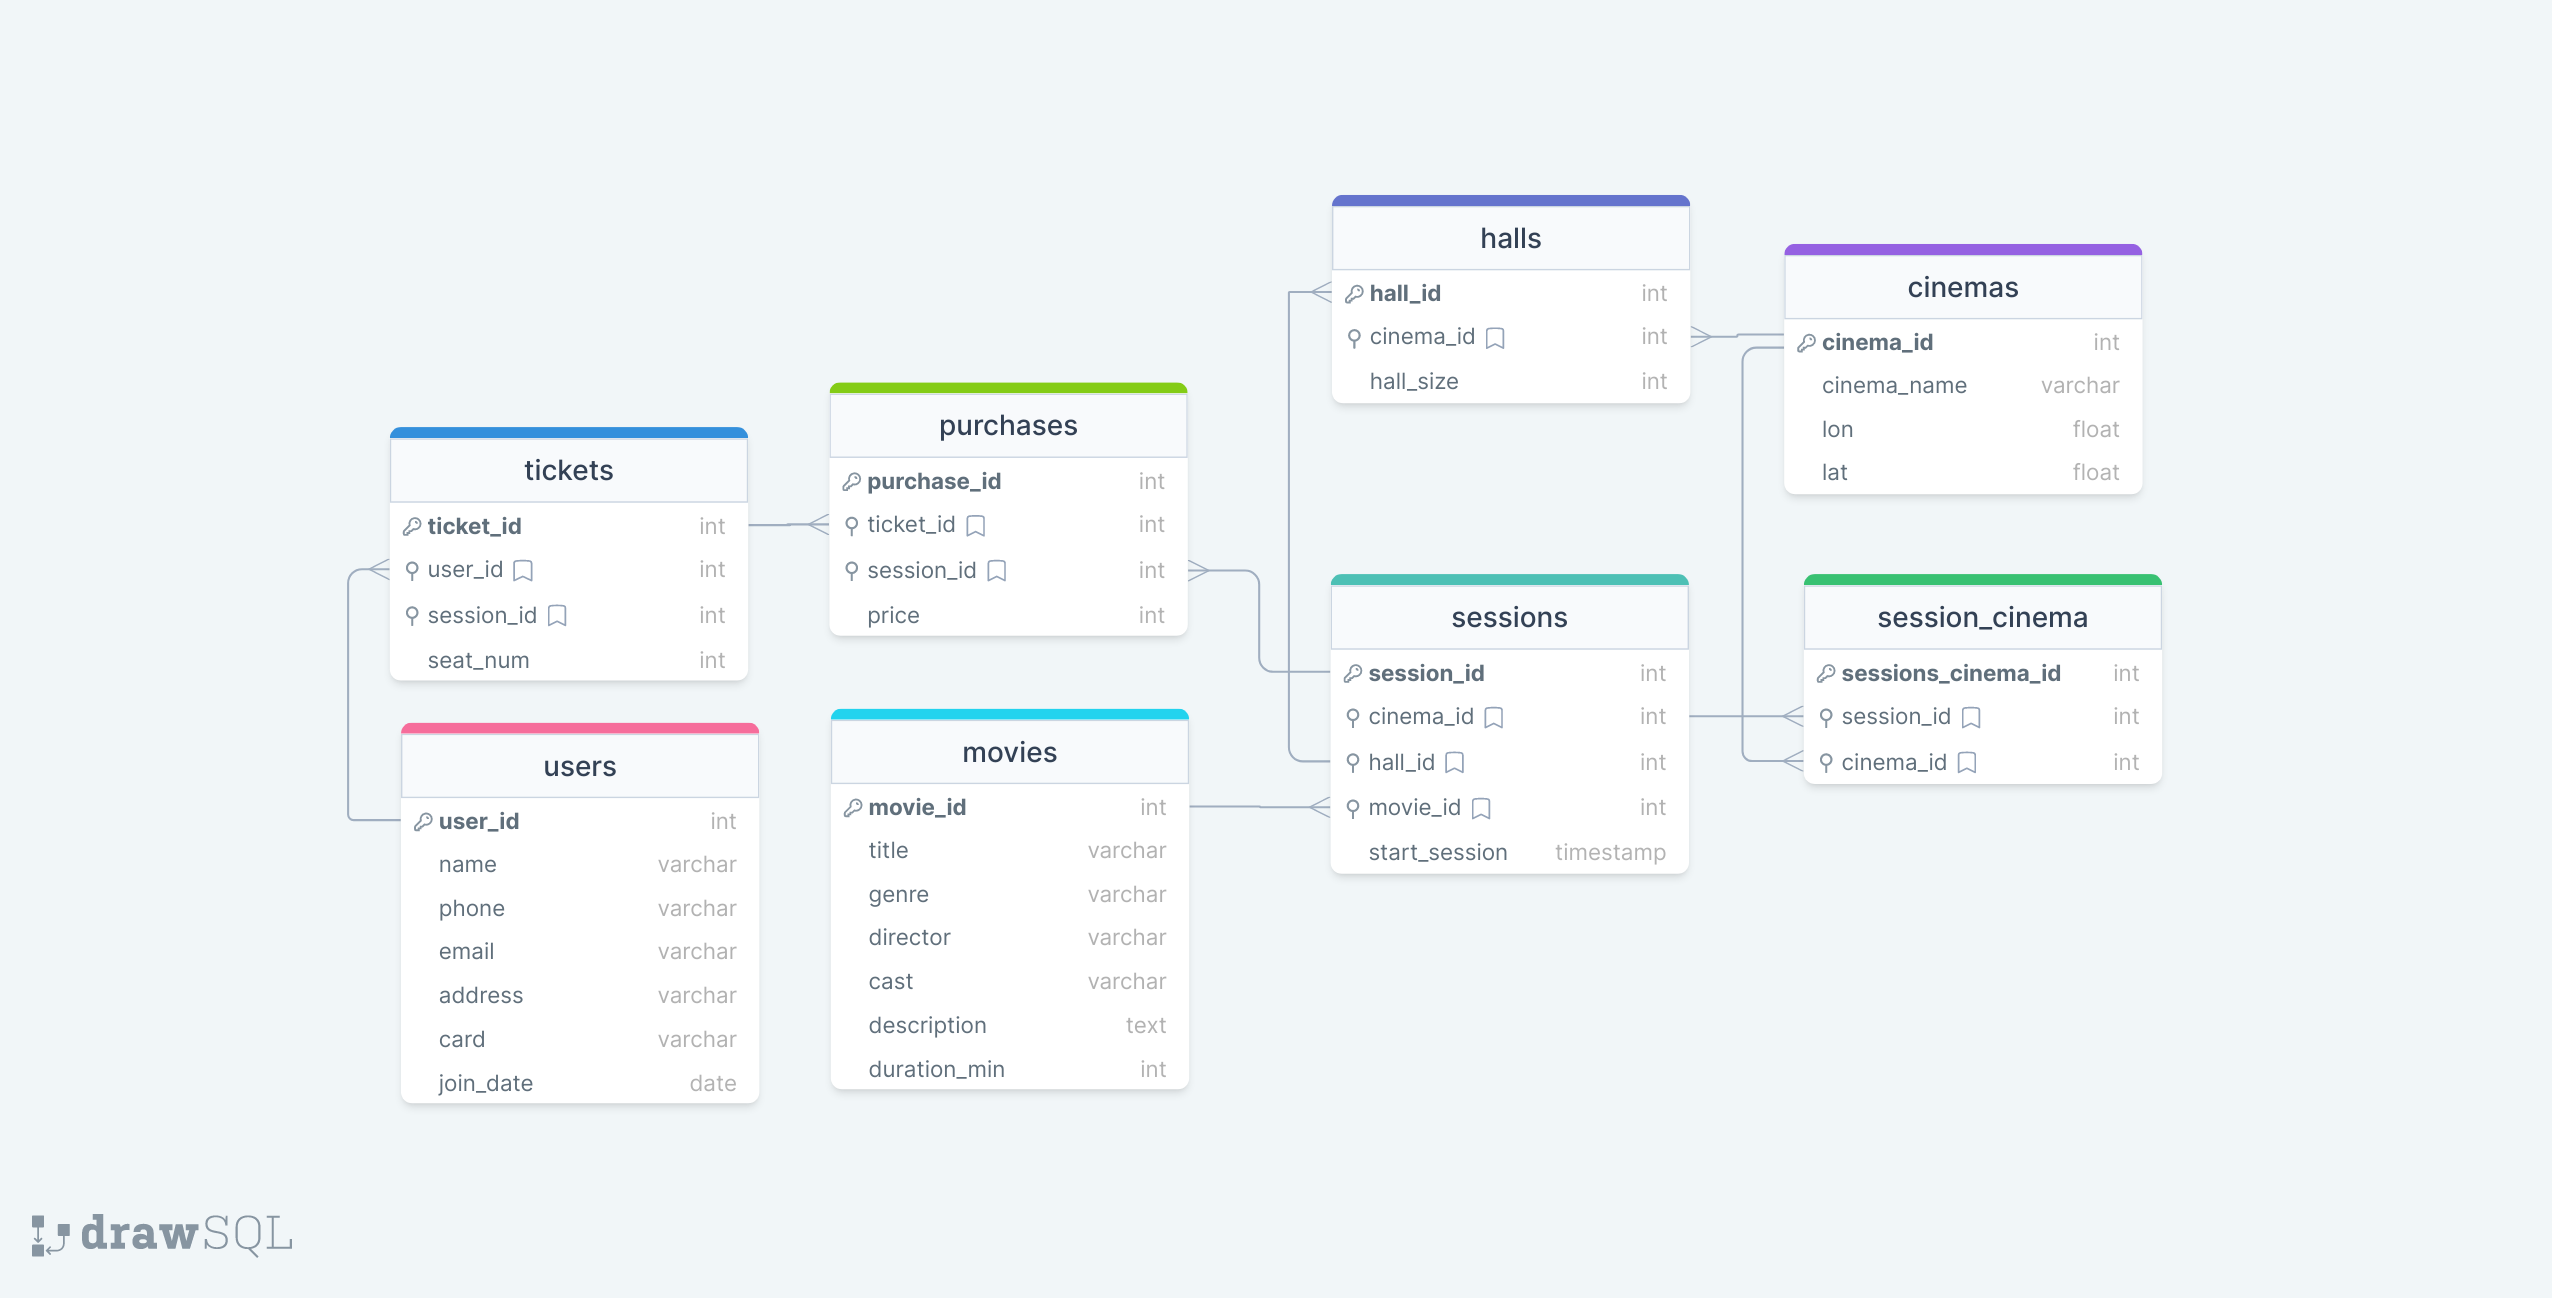
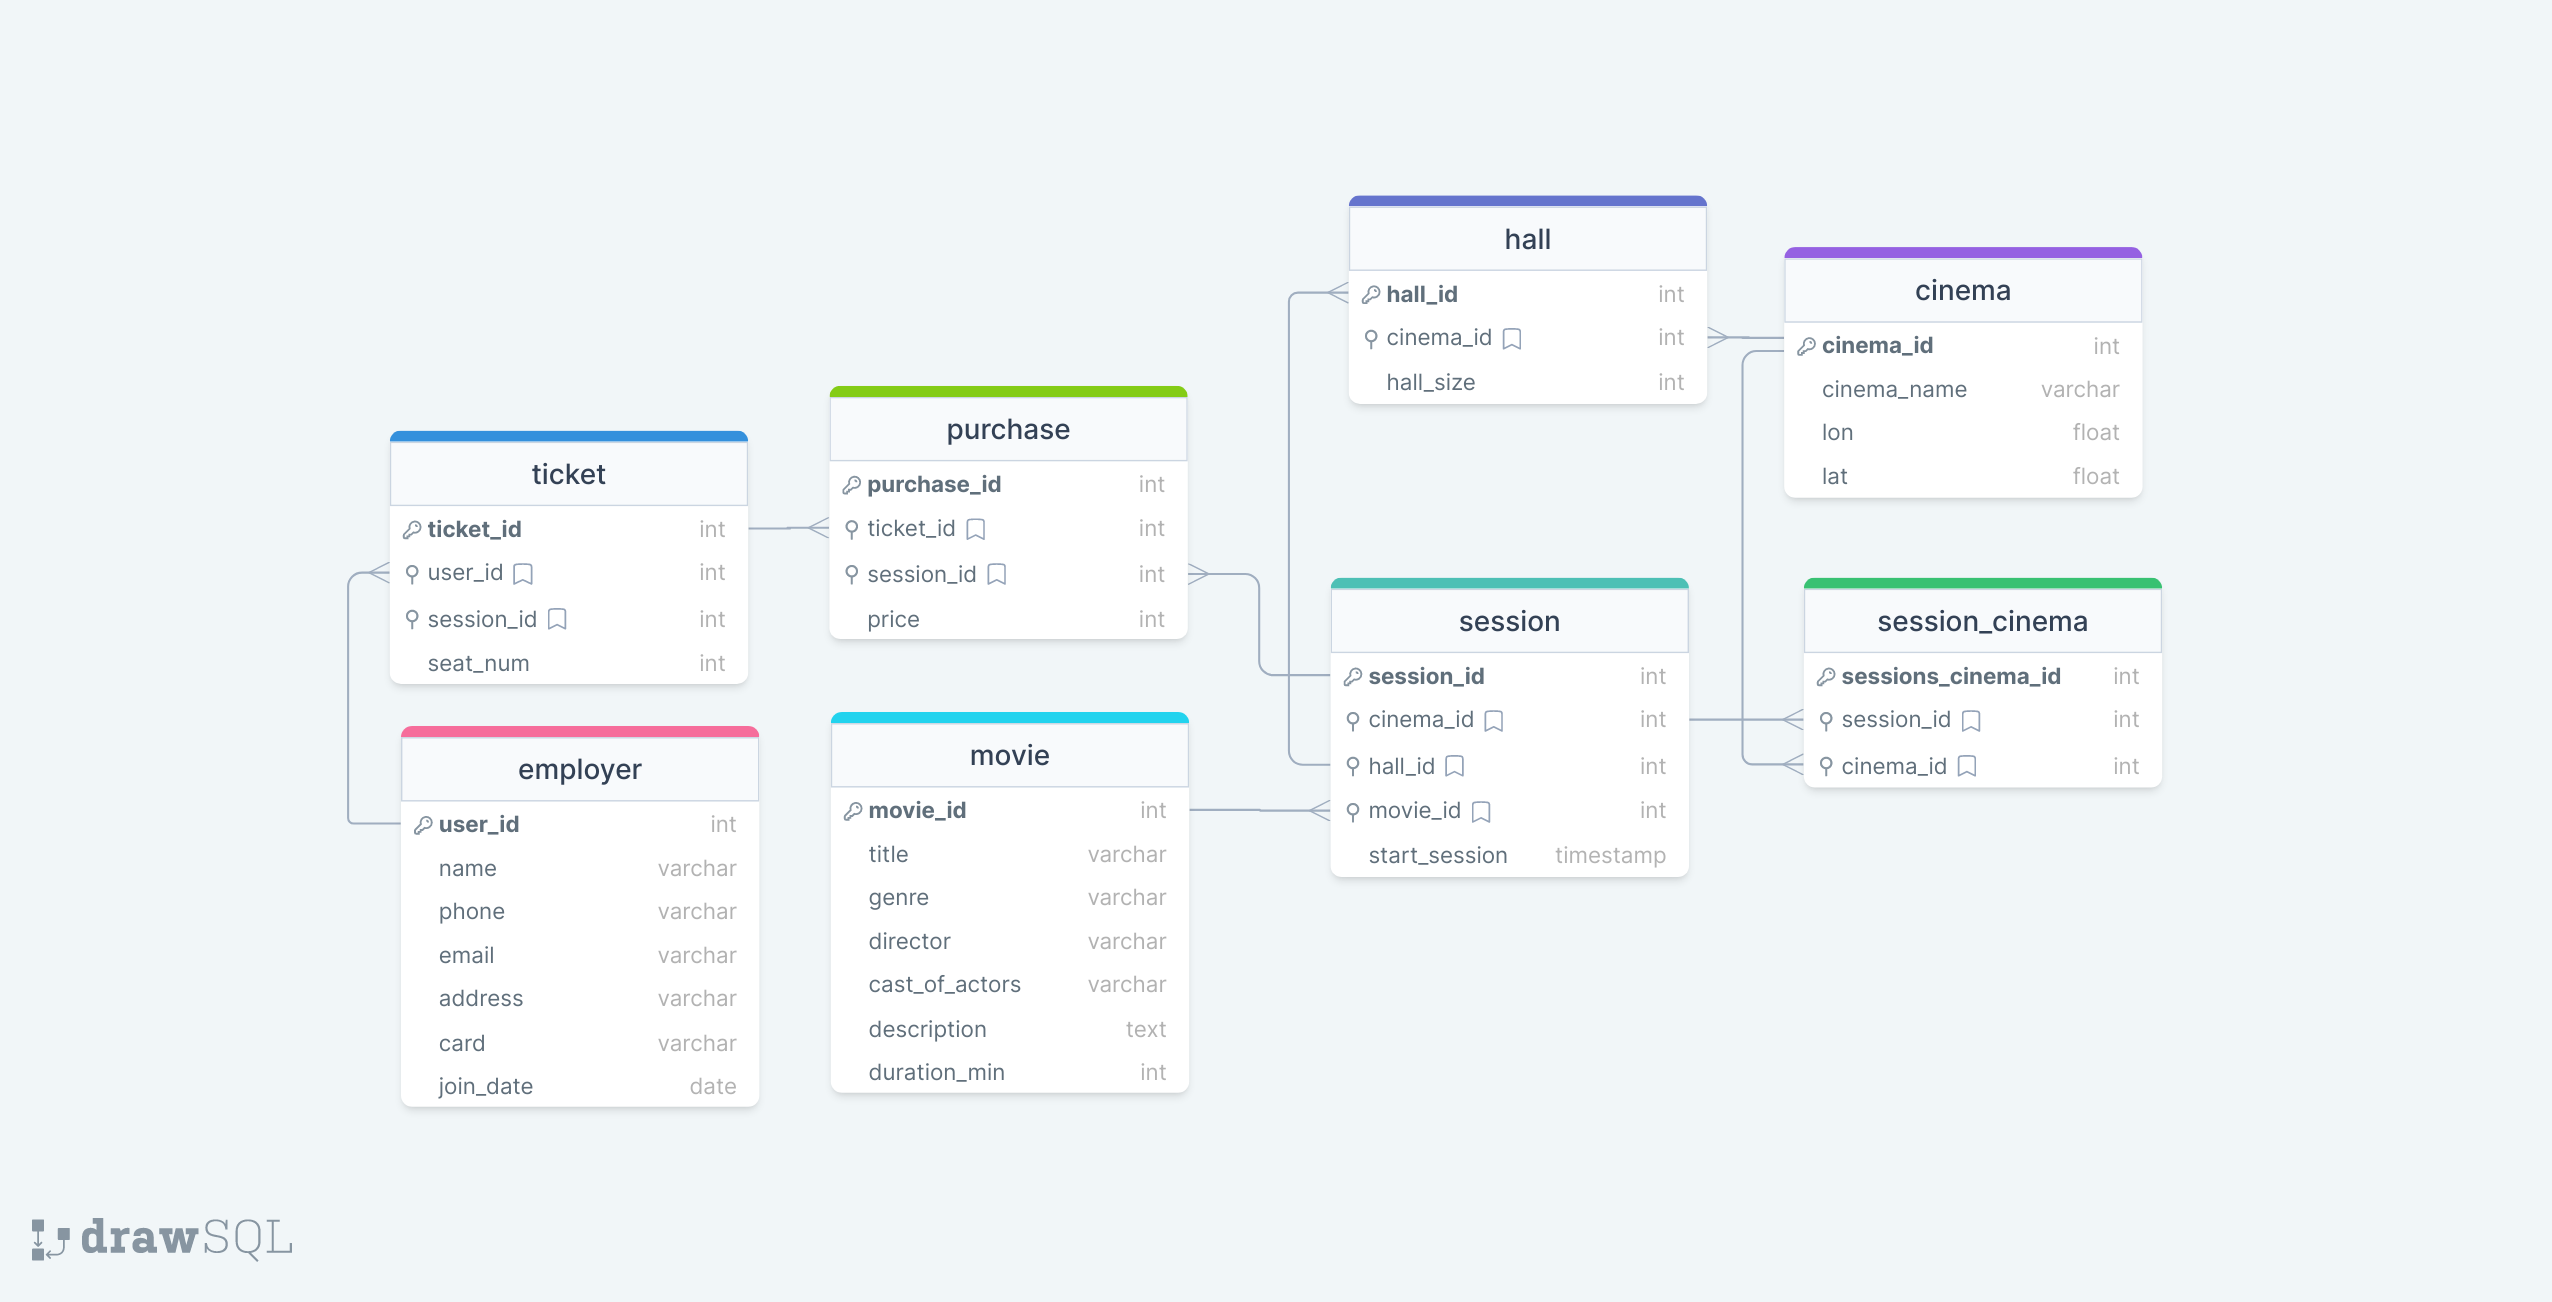
Update docs

diff --git a/docs/physical-model.md b/docs/physical-model.md
@@ -2,7 +2,7 @@
 
 ---
 
-Таблица `tickets`:
+Таблица `ticket`:
 
 | Название        | Описание           | Тип данных     | Ограничение   |
 |-----------------|--------------------|----------------|---------------|
@@ -11,7 +11,7 @@
 | `sessions_id`   | id сессии          | `INTEGER`      | `FOREIGN KEY` |
 | `seat_num`      | место в зале       | `INTEGER`      | `NOT NULL`    |
 
-Таблица `users`:
+Таблица `employer`:
 
 | Название             | Описание                   | Тип данных     | Ограничение   |
 |----------------------|----------------------------|----------------|---------------|
@@ -23,7 +23,7 @@
 | `card`               | Данные о банковской карте  | `VARCHAR(100)` | `NOT NULL`    |
 | `join_date`          | Дата регистрации           | `DATE`         | `NOT NULL`    |
 
-Таблица `purchases`:
+Таблица `purchase`:
 
 | Название       | Описание              | Тип данных | Ограничение   |
 |----------------|-----------------------|------------|---------------|
@@ -32,7 +32,7 @@
 | `session_id`   | Идентификатор Сессии  | `INTEGER`  | `FOREIGN KEY` |
 | `price`        | Цена Билета           | `INTEGER`  | `NOT NULL`    |
 
-Таблица `movies`:
+Таблица `movie`:
 
 | Название        | Описание               | Тип данных     | Ограничение   |
 |-----------------|------------------------|----------------|---------------|
@@ -40,11 +40,11 @@
 | `title`         | Название               | `VARCHAR(100)` | `NOT NULL`    |
 | `genre`         | Жанр                   | `VARCHAR(100)` | `NOT NULL`    |
 | `director`      | Режиссер               | `VARCHAR(100)` | `NOT NULL`    |
-| `cast`          | Актеры                 | `VARCHAR(1024)`| `NOT NULL`    |
+| `cast_of_actors`| Актеры                 | `VARCHAR(1024)`| `NOT NULL`    |
 | `description`   | Описание               | `TEXT`         | `NOT NULL`    |
 | `duration_min`  | Длительность(в минутах)| `VARCHAR(100)` | `NOT NULL`    |
 
-Таблица `halls`:
+Таблица `hall`:
 
 | Название       | Описание              | Тип данных | Ограничение   |
 |----------------|-----------------------|------------|---------------|
@@ -52,7 +52,7 @@
 | `cinema_id`    | id кинотеатра         | `INTEGER`  | `FOREIGN KEY` |
 | `hall_size`    | Размер зала           | `INTEGER`  | `NOT NULL`    |
 
-Таблица `sessions`:
+Таблица `session`:
 
 | Название       | Описание                | Тип данных | Ограничение   |
 |----------------|-------------------------|------------|---------------|
@@ -62,7 +62,7 @@
 | `movie_id`     | Идентификатор фильма    | `INTEGER`  | `FOREIGN KEY` |
 | `start_session`| Время Начала Сессии     | `TIMESTAMP`| `NOT NULL`    |
 
-Таблица `cinemas`:
+Таблица `cinema`:
 
 | Название       | Описание                | Тип данных    | Ограничение   |
 |----------------|-------------------------|---------------|---------------|
